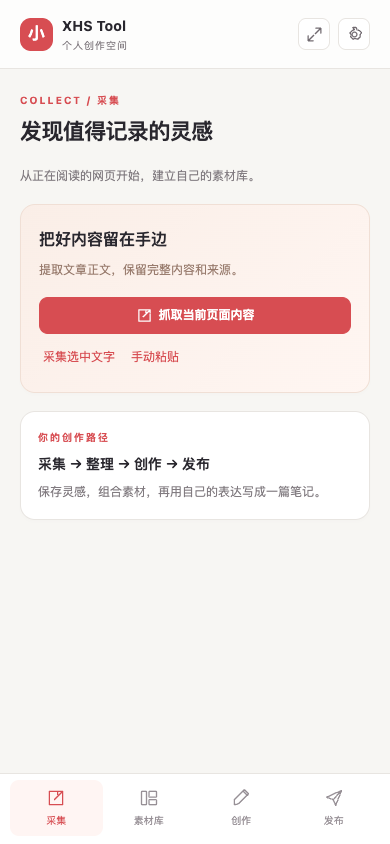
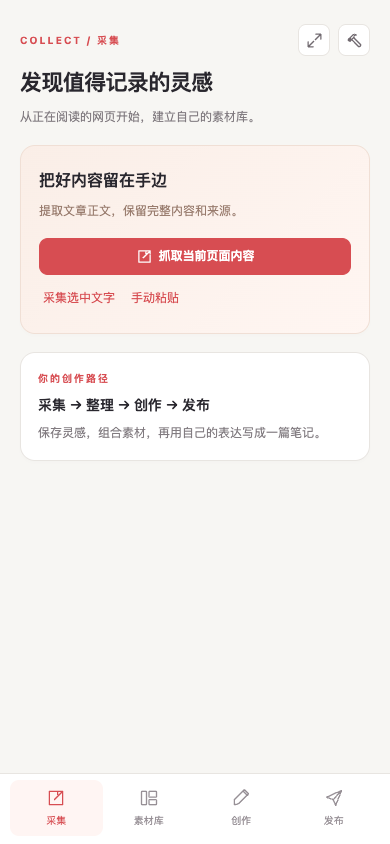
docs: refresh README previews for the current extension UI

diff --git a/README.md b/README.md
@@ -23,13 +23,15 @@ XHS Tool 是面向个人小红书内容创作的 Chrome 扩展，将「网页采
 
 项目采用 React + TypeScript 构建扩展界面，FastAPI + Python 提供后端服务。素材与草稿正文在浏览器端加密后保存到 PostgreSQL，图片存储在 Cloudflare R2；AI 写作调用你配置的 Anthropic 兼容接口。可选接入独立的 RAGFlow：启用后，所选素材的明文副本会进入知识库，用于带来源的写作建议。
 
+以下截图来自当前版本，内容均为虚构演示数据。
+
 <p align="center">
   <a href="docs/previews/editor.png">
-    <img src="docs/previews/editor.png" alt="XHS Tool 草稿编辑界面，展示标题、正文、保存状态和准备发布入口" width="390">
+    <img src="docs/previews/editor.png" alt="XHS Tool 草稿编辑界面，展示选题状态、计划日期、主题标签、标题正文和保存发布入口" width="390">
   </a>
 </p>
 
-编辑标题与正文，查看保存状态，完成草稿后进入发布准备。点击截图可查看原图。
+在同一页管理选题、计划日期和主题标签，编辑标题与正文，保存后进入发布准备。点击截图可查看原图。
 
 ## 已实现
 
@@ -49,7 +51,7 @@ XHS Tool 是面向个人小红书内容创作的 Chrome 扩展，将「网页采
 
 <p align="center">
   <a href="docs/previews/collection.png">
-    <img src="docs/previews/collection.png" alt="XHS Tool 素材采集界面，支持抓取当前网页、采集选中文字和手动粘贴" width="390">
+    <img src="docs/previews/collection.png" alt="XHS Tool 素材采集界面，展示精简页头、独立窗口与设置工具，以及网页抓取、选中文字和手动粘贴入口" width="390">
   </a>
 </p>
 
